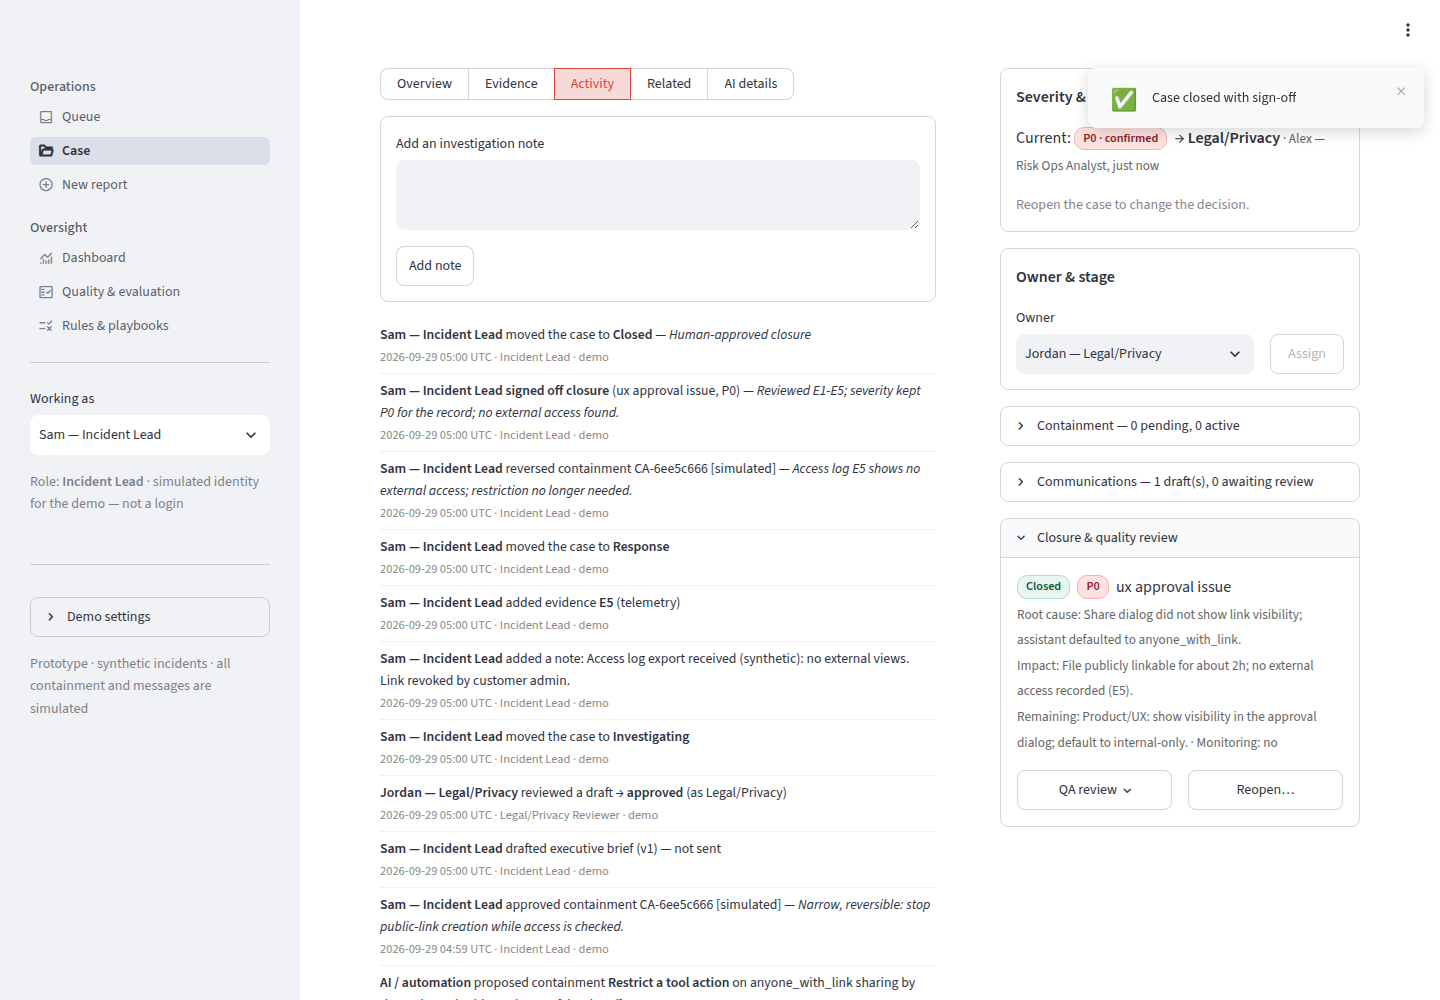
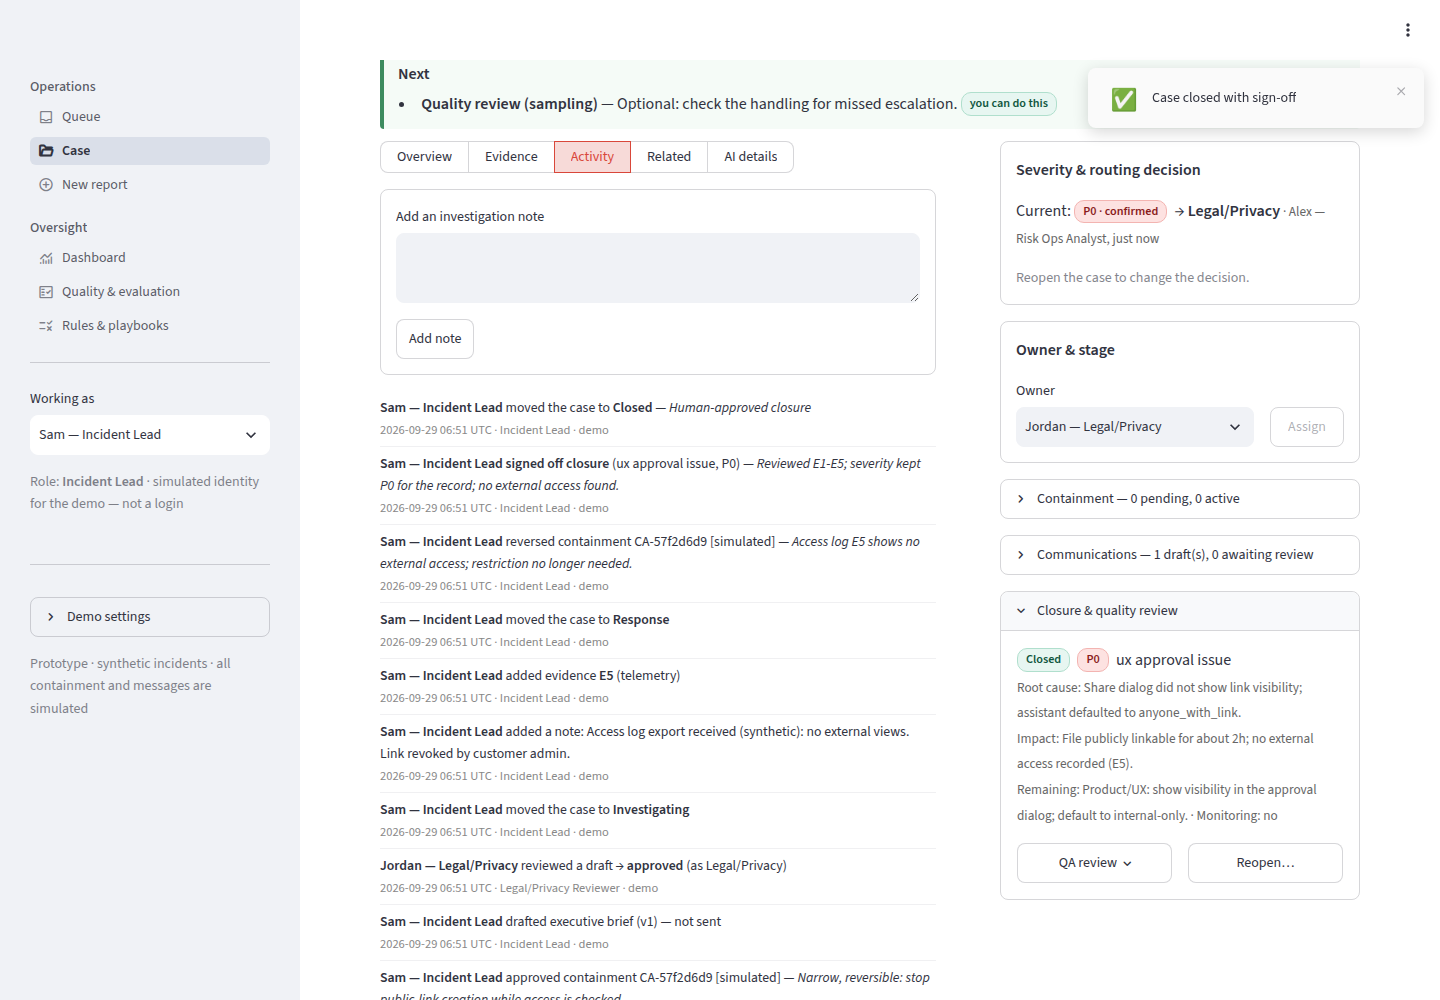
Friendlier interface: start-here tour, one-click role switch, clearer queue
- Queue opens with a dismissible tour: four buttons that each open a case
  showing one idea and switch to the right role.
- Case page: "Act as ..." buttons next to the Next panel when a step belongs
  to another role (prefers the specialist over the Incident Lead).
- Queue: colour-coded severity, flags beside severity, columns sized for a
  laptop screen, a lock marking steps your role can't take, and the legend
  moved into a "How to read this" popover.
- Compact public-demo notice in the sidebar.
- Dashboard: issue categories as a bar chart; plain-word override directions.
- README / ux_review updated; screenshots regenerated.

Claude-Session: https://claude.ai/code/session_01S67bgCkTvCGPjaivt2V8kR

diff --git a/app/page_queue.py b/app/page_queue.py
@@ -3,11 +3,47 @@ from __future__ import annotations
 import pandas as pd
 import streamlit as st
 
-from common import (CATEGORY_LABEL, STATUS_LABEL, actor_name, conn, current_actor, go, go_case,
+from common import (ACTORS, CATEGORY_LABEL, STATUS_LABEL, _set_actor, actor_name, conn, current_actor, go, go_case,
                     relative)
 from riskops import monitoring, workflow as wf
 
 VIEWS = ["Needs action", "My cases", "All open", "Closed", "All"]
+
+# Guided tour for first-time visitors: (title, what you will see, case, role to act as)
+TOUR = [
+    ("⏸ An automatic pause", "A P0 child-safety case paused its session by itself. Confirm or lift the pause as the Safety specialist.",
+     "INC-1002", "priya.safety"),
+    ("🛡 AI vs. safety controls", "The AI under-called an API-key leak as P2. Deterministic controls raised it to P0 and kept the specialist route.",
+     "INC-1004", "alex.riskops"),
+    ("⚖ Make a triage call", "Decide severity and routing for a jailbreak report. P0/P1 decisions must cite the evidence you reviewed.",
+     "INC-1008", "alex.riskops"),
+    ("🔗 Spot a related report", "A vague complaint that matches a confirmed injection incident. Confirm or reject the suggested link.",
+     "INC-1015", "alex.riskops"),
+]
+SEV_STYLE = {"P0": "background-color:#fde2e1;color:#8a1c1c;font-weight:600", "P1": "background-color:#fdecd8;color:#8a4a0b;font-weight:600",
+             "P2": "background-color:#fff6cc;color:#6b5600", "P3": "background-color:#eef1f5;color:#4a5160"}
+
+
+def _tour(existing: set[str]) -> None:
+    if st.session_state.get("tour_hidden"):
+        return
+    with st.container(border=True):
+        a, b = st.columns([6, 1], vertical_alignment="top")
+        a.markdown("**New here? Start with one of these.** Each report about an AI assistant is assessed by an AI, checked by "
+                   "deterministic safety controls, and decided by people with recorded reasons. All data is synthetic; nothing is "
+                   "sent or enforced. Use *Working as* in the sidebar to switch roles, or the buttons below, which pick the right role for you.")
+        if b.button("Hide", key="tour_hide", use_container_width=True):
+            st.session_state["tour_hidden"] = True
+            st.rerun()
+        steps = [t for t in TOUR if t[2] in existing]
+        cols = st.columns(len(steps)) if steps else []
+        for col, (title, text, iid, actor) in zip(cols, steps):
+            with col:
+                st.markdown(f"**{title}**")
+                st.caption(text)
+                name = ACTORS[actor].display.split(" (")[0].split(" —")[0]
+                if st.button(f"Open {iid} as {name}", key=f"tour_{iid}", on_click=_set_actor, args=(actor,), use_container_width=True):
+                    go_case(iid)
 
 
 def render() -> None:
@@ -21,6 +57,8 @@ def render() -> None:
     head.title("Incident queue")
     if btn.button("＋ New report", type="primary", use_container_width=True):
         go("intake")
+
+    _tour({x["incident_id"] for x in q})
 
     k1, k2, k3, k4, k5 = st.columns(5)
     k1.metric("Open", len(open_q))
@@ -76,7 +114,7 @@ def render() -> None:
         due = ""
         if is_open and not x["human_severity"]:
             due = ("⚠ " if x["overdue"] else "") + relative(x["minutes_to_deadline"])
-        flags = []
+        flags = []  # joined with spaces below
         if x["auto_paused"]:
             flags.append("⏸")
         if x["mandatory_review"] and is_open and not x["human_severity"]:
@@ -85,30 +123,45 @@ def render() -> None:
             flags.append("🧪")
         rows.append({
             "Severity": f"{x['effective_severity']} {basis_short[x['severity_basis']]}",
+            "Flags": " ".join(flags),
             "ID": x["incident_id"],
             "Title": x["title"],
             "Status": STATUS_LABEL[x["status"]],
-            "Next action": (nxt["title"] + ("" if wf.actor_can_do(c, me, nxt) else " · not your role")) if nxt else "—",
+            "Next action": (("" if wf.actor_can_do(c, me, nxt) else "🔒 ") + nxt["title"]) if nxt else "—",
             "First review": due,
             "Owner": actor_name(x["owner"]).split(" —")[0] if x["owner"] else "—",
-            "Flags": ", ".join(flags),
         })
-    st.caption(f"{len(rows)} case(s) · most urgent first · click a row to open it · ✓ human-confirmed · AI = unconfirmed recommendation · ⏸ auto-paused, awaiting a person · ⚑ mandatory review · 🧪 fault test")
+    cap, leg = st.columns([5, 1], vertical_alignment="center")
+    cap.caption(f"{len(rows)} case(s) · most urgent first · click a row to open it")
+    with leg.popover("How to read this", use_container_width=True):
+        st.markdown("""
+**Severity**: P0 critical · P1 high · P2 medium · P3 low
+- `P0 ✓` a person confirmed it
+- `P0 · AI` the AI's recommendation after safety controls, not yet confirmed
+- `P0 · rules` the AI failed, so the deterministic rules' view is shown
+- `P1 · default` not assessed yet
+
+**Flags**: ⏸ session paused automatically, waiting for a person · ⚑ a person must review · 🧪 fault-injection test data
+
+**Next action**: 🔒 means your current role can't do it. Open the case to switch roles in one click.
+""")
     if not rows:
         st.info("Nothing here. Try another view or clear the filters.")
         return
+    df = pd.DataFrame(rows)
+    styled = df.style.map(lambda v: SEV_STYLE.get(str(v)[:2], ""), subset=["Severity"])
     event = st.dataframe(
-        pd.DataFrame(rows), hide_index=True, use_container_width=True, on_select="rerun", selection_mode="single-row",
+        styled, hide_index=True, use_container_width=True, on_select="rerun", selection_mode="single-row",
         key=f"q_table_{view}_{st.session_state.get('q_nonce', 0)}", height=min(36 * (len(rows) + 1) + 4, 640),
         column_config={
-            "Severity": st.column_config.TextColumn(width=84, help="✓ = human-confirmed. AI = recommendation after safety controls, not yet confirmed."),
-            "ID": st.column_config.TextColumn(width=78),
-            "Title": st.column_config.TextColumn(width=255),
-            "Status": st.column_config.TextColumn(width=150),
-            "Next action": st.column_config.TextColumn(width=180),
-            "First review": st.column_config.TextColumn(width=100, help="Time to the first-human-review target (prototype SLA assumptions)"),
-            "Owner": st.column_config.TextColumn(width=58),
-            "Flags": st.column_config.TextColumn(width=56, help="⏸ session auto-paused (C7), confirm or lift · ⚑ mandatory human review pending · 🧪 fault-injection test data"),
+            "Severity": st.column_config.TextColumn(width=86, help="✓ = human-confirmed. AI = recommendation after safety controls, not yet confirmed."),
+            "ID": st.column_config.TextColumn(width=72),
+            "Title": st.column_config.TextColumn(width=262),
+            "Status": st.column_config.TextColumn(width=128),
+            "Next action": st.column_config.TextColumn(width=200),
+            "First review": st.column_config.TextColumn(width=92, help="Time to the first-human-review target (prototype SLA assumptions)"),
+            "Owner": st.column_config.TextColumn(width=52),
+            "Flags": st.column_config.TextColumn(width=52, help="⏸ session auto-paused (C7), confirm or lift · ⚑ mandatory human review pending · 🧪 fault-injection test data"),
         })
     sel = event.selection.rows if event and hasattr(event, "selection") else []
     if sel:

diff --git a/app/common.py b/app/common.py
@@ -252,6 +252,40 @@ def current_actor() -> wf.Actor:
     return ACTORS[st.session_state.get("actor_id", "alex.riskops")]
 
 
+def _set_actor(actor_id: str) -> None:
+    # Runs as a widget callback, i.e. before the sidebar selectbox (key "actor_id") is drawn.
+    st.session_state["actor_id"] = actor_id
+    st.session_state.setdefault("_toasts", []).append(f"Now working as {ACTORS[actor_id].display.split(' (')[0]}")
+
+
+def actor_for(action: dict) -> wf.Actor | None:
+    """A simulated person who may take this next action (for one-click role switching)."""
+    able = [a for a in wf.SIMULATED_ACTORS
+            if (action["role"] and a.role == action["role"]) or (not action["role"] and wf.can(a, action["permission"]))]
+    # Prefer the specialist or analyst; the Incident Lead is the escalation point.
+    return next((a for a in able if a.role != "incident_lead"), able[0] if able else None)
+
+
+def switch_role_buttons(actions: list[dict], key: str) -> None:
+    """Offer one button per role that could act where the current role cannot."""
+    me = current_actor()
+    seen: list[str] = []
+    for x in actions:
+        if wf.actor_can_do(conn(), me, x):
+            continue
+        a = actor_for(x)
+        if a and a.actor_id not in seen and a.actor_id != me.actor_id:
+            seen.append(a.actor_id)
+    if not seen:
+        return
+    cols = st.columns([1.3] + [1.0] * len(seen) + [max(0.1, 5 - len(seen))], vertical_alignment="center")
+    cols[0].markdown("<span class='small'>Not your role? Switch:</span>", unsafe_allow_html=True)
+    for col, aid in zip(cols[1:], seen):
+        full = ACTORS[aid].display.split(" (")[0]
+        col.button(f"Act as {full.split(' —')[0]}", key=f"{key}_{aid}", on_click=_set_actor, args=(aid,),
+                   help=f"Switch the simulated identity to {full}", use_container_width=True)
+
+
 def provider_for_mode():
     mode = get_setting(conn(), "provider_mode")
     return get_provider(mode), mode

diff --git a/app/page_dashboard.py b/app/page_dashboard.py
@@ -82,12 +82,21 @@ def render() -> None:
         st.markdown(f"**{o['overrides']}** of **{o['decisions_with_ai_recommendation']}** decisions overrode the AI recommendation")
         st.dataframe(pd.DataFrame([{"Override reason": pretty(k), "Count": v} for k, v in o["by_reason"].items()] or [{"Override reason": "none", "Count": 0}]),
                      hide_index=True, use_container_width=True)
-        st.caption("Direction: " + (", ".join(f"{k} {v}" for k, v in o["by_direction"].items()) or "—"))
+        dir_label = {"raised": "severity raised", "lowered": "severity lowered", "route_only": "only the owning team changed"}
+        st.caption("Direction: " + (" · ".join(f"{dir_label.get(k, pretty(k))}: {v}" for k, v in o["by_direction"].items()) or "—"))
     with b:
         st.subheader("Issue categories")
         st.caption("Counts only — there is no usage denominator, so no recurrence rates.")
-        st.dataframe(pd.DataFrame([{"Category": CATEGORY_LABEL.get(k, k), "Cases": v} for k, v in sorted(m["category_counts"].items(), key=lambda x: -x[1])]),
-                     hide_index=True, use_container_width=True)
+        cats = pd.DataFrame([{"Category": CATEGORY_LABEL.get(k, k), "Cases": v} for k, v in m["category_counts"].items()])
+        if cats.empty:
+            st.info("No categorised cases yet.")
+        else:
+            import altair as alt
+            chart = (alt.Chart(cats).mark_bar(color="#d9473a", cornerRadiusEnd=3)
+                     .encode(x=alt.X("Cases:Q", axis=alt.Axis(tickMinStep=1, title="Cases")),
+                             y=alt.Y("Category:N", sort="-x", title=None, axis=alt.Axis(labelLimit=260)), tooltip=["Category", "Cases"])
+                     .properties(height=max(200, 26 * len(cats))))
+            st.altair_chart(chart, use_container_width=True)
 
     st.subheader("AI assessment health")
     f1, f2 = st.columns(2)

diff --git a/app/page_case.py b/app/page_case.py
@@ -8,7 +8,7 @@ from datetime import datetime, timedelta, timezone
 import pandas as pd
 import streamlit as st
 
-from common import (action_label, humanize, BASIS_LABEL, CATEGORY_LABEL, CONTROL_TEXT, EVIDENCE_TYPES, FIELD_LABEL, ROUTE_LABEL, STATUS_LABEL,
+from common import (action_label, humanize, switch_role_buttons, BASIS_LABEL, CATEGORY_LABEL, CONTROL_TEXT, EVIDENCE_TYPES, FIELD_LABEL, ROUTE_LABEL, STATUS_LABEL,
                     TEAMS, actor_name, ago, badge, conn, current_actor, describe_event, esc, feedback, go, md,
                     permission_hint, pretty, provider_for_mode, relative, run_action, run_inline, section, sev_badge,
                     source_badge, stepper)
@@ -617,6 +617,7 @@ def render() -> None:
             items.append(f"<li><b>{esc(x['title'])}</b> — {esc(x['detail'])} "
                          + (badge("you can do this", "b-human") if mine else badge("needs " + wf.who_can_do(x), "b-muted")) + "</li>")
         md(f'<div class="next{" ok" if not any(x["urgent"] for x in acts) else ""}"><b>Next</b><ul style="margin:4px 0 0 0">{"".join(items)}</ul></div>')
+        switch_role_buttons(acts, key=f"sw_{iid}")
 
     left, right = st.columns([3, 2], gap="large")
     with left:

diff --git a/app/streamlit_app.py b/app/streamlit_app.py
@@ -80,8 +80,8 @@ with st.sidebar:
                 st.rerun()
     st.caption("Prototype · synthetic incidents · all containment and messages are simulated")
     if common.public_demo():
-        st.info("Public demo: you have your own private copy of the demo data. Changes you make are not seen by "
-                "other visitors and are discarded when you leave. Please don't enter real personal data.")
+        st.caption("🔒 **Public demo** — your own private copy of the data; nobody else sees your changes and it "
+                   "resets when you leave. Please don't enter real personal data.")
 
 common.feedback("global")
 common.show_toasts()

diff --git a/docs/ux_review.md b/docs/ux_review.md
@@ -71,3 +71,12 @@ The first interface worked, but it was organized around *data* (one tab per tabl
 * `scripts/ui_walkthrough.py` drives the demo through the redesigned interface in headless Chromium. It asserts that **a Safety specialist can confirm an automatic pause**, that **Risk Ops cannot approve P0 containment**, and that **the Incident Lead cannot approve a draft flagged for Legal/Privacy** (both controls are disabled). It produced `docs/screenshots/01–13`.
 * `scripts/ui_smoke.py` opens every page and every case section and checks that none raises an exception.
 * `tests/test_workflow.py::test_next_actions_guide_by_status_and_role` and `::test_closure_blockers_match_close_incident_checks` cover the new guidance services.
+
+## Second review (after hosting)
+
+Looking at the app as a first-time visitor arriving from a link turned up five issues, now fixed:
+1. **No starting point.** The queue now opens with a dismissible tour: four buttons that each open a case showing one idea and select the right role.
+2. **Role friction.** Most steps belong to another role. The case page now offers **Act as …** buttons next to the Next panel instead of sending people to the sidebar.
+3. **Hard-to-scan queue.** Severity cells are colour-coded, and the flags (⏸ ⚑ 🧪) sit next to severity so they never scroll out of view. Columns are sized to fit a laptop screen, a 🔒 marks steps your role can't take, and the long legend moved into a **How to read this** popover.
+4. **Crowded sidebar.** The public-demo notice is now a one-line caption instead of a large panel.
+5. **Table-only dashboard.** Issue categories are a bar chart, and override directions use plain words ("severity raised", "only the owning team changed").

diff --git a/README.md b/README.md
@@ -42,9 +42,10 @@ Everything runs offline. For the optional live model mode, copy `.env.example` t
 
 ### Using the interface
 
-* **Queue** (home page): the cases that need action, most urgent first. Click a row to open it. The **Filters** popover narrows by severity, category, owner or review flag.
+* **Start here**: the queue opens with a short tour. Each button opens a case that shows one idea (an automatic pause, AI vs. safety controls, a triage decision, a related report) and switches to the right role for you. **Hide** puts it away.
+* **Queue** (home page): the cases that need action, most urgent first, with colour-coded severity. Click a row to open it. The **Filters** popover narrows by severity, category, owner or review flag, and **How to read this** explains the symbols.
 * **Case**: the whole case on one screen.
-  * The **Next** panel says what the case needs and whether your role can do it.
+  * The **Next** panel says what the case needs and whether your role can do it. If it's someone else's step, one click (**Act as …**) switches to that role.
   * The left side is the case file: the report, the AI assessment with each claim shown beside the evidence it cites, evidence, activity, related reports and AI details.
   * The right side holds the actions: the severity and routing decision, owner and stage, containment, draft communications, and closure. Controls your role can't use are disabled, with the reason shown.
 * **New report**: a structured form, or JSON import.
